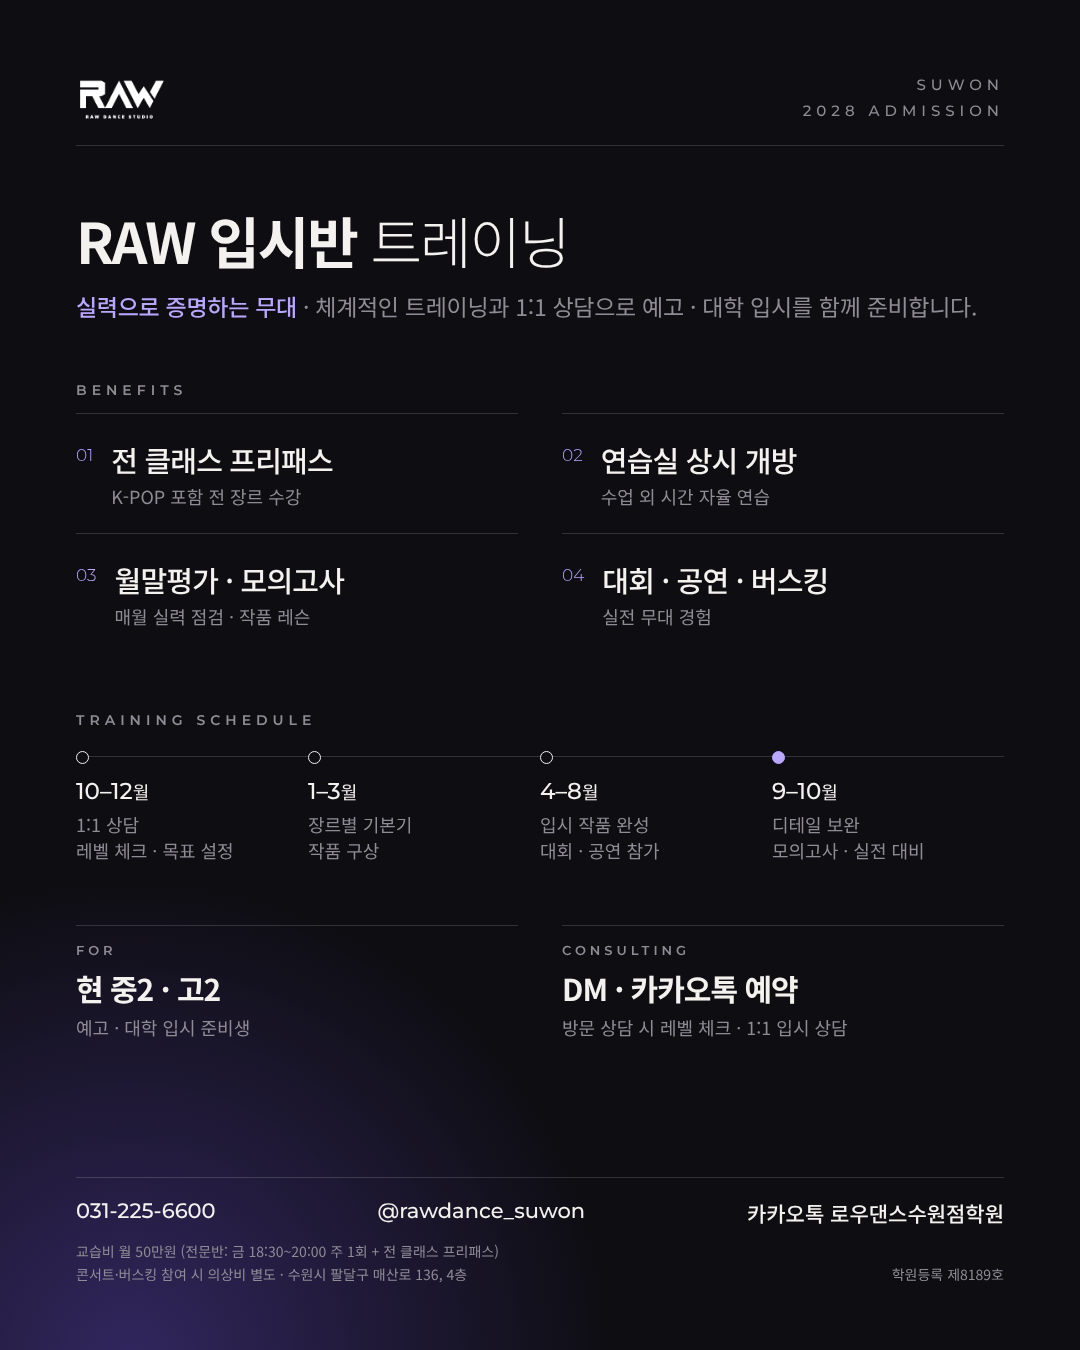
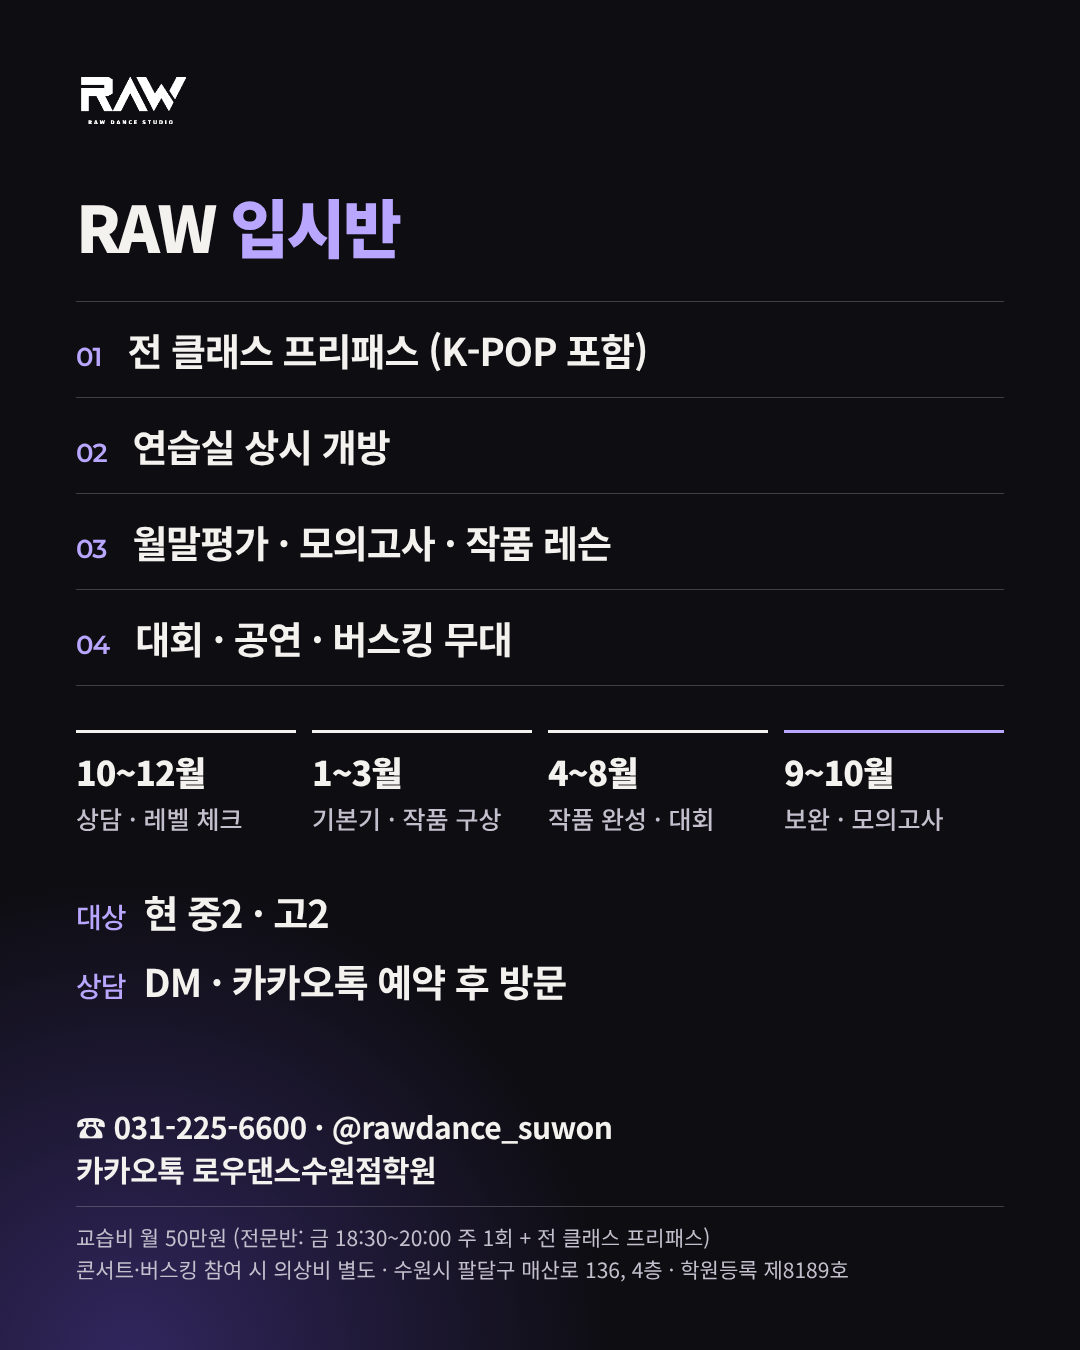
입시반 캐러셀: 작은 글씨 줄이고 크게 (휴대폰 가독성)
Claude-Session: https://claude.ai/code/session_01CMPXWNa21Fqq6srPZpa27D

diff --git a/content/2026-10-13_ipsi-poster/slide2.html b/content/2026-10-13_ipsi-poster/slide2.html
@@ -1,63 +1,49 @@
 <!doctype html><html lang="ko"><head><meta charset="utf-8">
-<link href="https://fonts.googleapis.com/css2?family=Noto+Sans+KR:wght@300;400;500;700;900&family=Montserrat:wght@200;300;500;600&display=swap" rel="stylesheet">
+<link href="https://fonts.googleapis.com/css2?family=Noto+Sans+KR:wght@300;400;500;700;900&family=Montserrat:wght@500;600&display=swap" rel="stylesheet">
 <style>*{box-sizing:border-box;margin:0;padding:0}html,body{width:1080px;height:1350px}
 body{font-family:"Noto Sans KR",sans-serif;background:#0e0d12;color:#f4f2ee;position:relative;overflow:hidden}
 .glow{position:absolute;width:1100px;height:1100px;border-radius:50%;left:-420px;bottom:-560px;background:radial-gradient(circle,rgba(124,92,255,.32),rgba(124,92,255,0) 62%)}
 .p{position:absolute;inset:72px 76px 64px}
-.top{display:flex;justify-content:space-between;align-items:flex-end;padding-bottom:22px;border-bottom:1px solid rgba(244,242,238,.16)}
-.top img{height:46px}
-.top .r{font-family:Montserrat;font-weight:500;font-size:15px;letter-spacing:5px;color:#8f8c96;text-align:right;line-height:1.7}
+.logo{height:58px}
 
-.h{margin-top:60px;font-size:56px;font-weight:700;letter-spacing:-2px;line-height:1.2}
-.h span{font-weight:300}
-.lead{margin-top:16px;font-size:23px;color:#8f8c96;letter-spacing:-0.3px}
-.lead b{color:#b9a6ff;font-weight:500}
-.sec{margin-top:58px;font-family:Montserrat;font-weight:600;font-size:14px;letter-spacing:5px;color:#8f8c96}
-.list{margin-top:14px;display:grid;grid-template-columns:1fr 1fr;column-gap:44px}
-.it{display:flex;gap:18px;padding:24px 0;border-top:1px solid rgba(244,242,238,.16)}
-.it .n{font-family:Montserrat;font-weight:300;font-size:17px;color:#b9a6ff;padding-top:7px}
-.it b{display:block;font-size:29px;font-weight:500;letter-spacing:-0.8px}
-.it span{display:block;margin-top:3px;font-size:18px;color:#8f8c96}
-.track{position:relative;margin-top:22px;display:grid;grid-template-columns:repeat(4,1fr)}
-.track:before{content:"";position:absolute;left:0;right:0;top:5px;height:1px;background:rgba(244,242,238,.16)}
-.st{position:relative;padding-top:26px}
-.st:before{content:"";position:absolute;left:0;top:0;width:11px;height:11px;border-radius:50%;background:#0e0d12;border:1.5px solid #f4f2ee}
-.st:last-child:before{background:#b9a6ff;border-color:#b9a6ff}
-.st b{font-family:Montserrat;font-weight:500;font-size:23px}
-.st b small{font-family:"Noto Sans KR";font-size:18px;font-weight:400}
-.st span{display:block;margin-top:6px;font-size:18px;color:#8f8c96;line-height:1.45}
-.info{margin-top:62px;display:grid;grid-template-columns:1fr 1fr;column-gap:44px}
-.info div{border-top:1px solid rgba(244,242,238,.16);padding-top:16px}
-.info small{display:block;font-family:Montserrat;font-weight:600;font-size:13px;letter-spacing:4px;color:#8f8c96}
-.info b{display:block;margin-top:8px;font-size:30px;font-weight:700;letter-spacing:-1px}
-.info span{display:block;margin-top:4px;font-size:18px;color:#8f8c96;line-height:1.5}
+.h{margin-top:44px;font-size:64px;font-weight:900;letter-spacing:-2.5px}
+.h span{color:#b9a6ff}
+.list{margin-top:30px}
+.it{display:flex;align-items:baseline;gap:26px;padding:20px 0;border-top:1px solid rgba(244,242,238,.22);font-size:38px;font-weight:700;letter-spacing:-1px}
+.it:last-child{border-bottom:1px solid rgba(244,242,238,.22)}
+.it i{font-style:normal;font-family:Montserrat;font-weight:600;font-size:26px;color:#b9a6ff}
+.track{margin-top:44px;display:grid;grid-template-columns:repeat(4,1fr);gap:16px}
+.st{border-top:3px solid #f4f2ee;padding-top:14px}
+.st:last-child{border-color:#b9a6ff}
+.st b{display:block;font-size:34px;font-weight:900;letter-spacing:-1px}
+.st span{display:block;margin-top:6px;font-size:25px;font-weight:500;color:#c3bfcc;line-height:1.35}
+.info{margin-top:48px;display:flex;flex-direction:column;gap:14px}
+.info div{font-size:38px;font-weight:700;letter-spacing:-1px}
+.info small{font-size:28px;font-weight:500;color:#b9a6ff;margin-right:18px}
 .bot{position:absolute;left:0;right:0;bottom:0}
-.ct{display:flex;justify-content:space-between;padding-top:20px;border-top:1px solid rgba(244,242,238,.16);font-size:21px;font-weight:500}
-.ct .en{font-family:Montserrat}
-.lg{margin-top:12px;font-size:14px;color:#8f8c96;line-height:1.65;display:flex;justify-content:space-between}
-</style></head><body><div class="glow"></div><div class="p"><div class="top"><img src="raw-logo.png"><div class="r">SUWON<br>2028 ADMISSION</div></div>
-<div class="h">RAW 입시반 <span>트레이닝</span></div>
-<div class="lead"><b>실력으로 증명하는 무대</b> · 체계적인 트레이닝과 1:1 상담으로 예고 · 대학 입시를 함께 준비합니다.</div>
-<div class="sec">BENEFITS</div>
+.ct{font-size:30px;font-weight:700;letter-spacing:-0.5px;line-height:1.45}
+.lg{margin-top:14px;padding-top:14px;border-top:1px solid rgba(244,242,238,.22);font-size:21px;font-weight:400;color:#c3bfcc;line-height:1.55}
+</style></head><body><div class="glow"></div><div class="p">
+<img class="logo" src="raw-logo.png">
+<div class="h">RAW <span>입시반</span></div>
 <div class="list">
- <div class="it"><div class="n">01</div><div><b>전 클래스 프리패스</b><span>K-POP 포함 전 장르 수강</span></div></div>
- <div class="it"><div class="n">02</div><div><b>연습실 상시 개방</b><span>수업 외 시간 자율 연습</span></div></div>
- <div class="it"><div class="n">03</div><div><b>월말평가 · 모의고사</b><span>매월 실력 점검 · 작품 레슨</span></div></div>
- <div class="it"><div class="n">04</div><div><b>대회 · 공연 · 버스킹</b><span>실전 무대 경험</span></div></div>
+ <div class="it"><i>01</i>전 클래스 프리패스 (K-POP 포함)</div>
+ <div class="it"><i>02</i>연습실 상시 개방</div>
+ <div class="it"><i>03</i>월말평가 · 모의고사 · 작품 레슨</div>
+ <div class="it"><i>04</i>대회 · 공연 · 버스킹 무대</div>
 </div>
-<div class="sec">TRAINING SCHEDULE</div>
 <div class="track">
- <div class="st"><b>10–12<small>월</small></b><span>1:1 상담<br>레벨 체크 · 목표 설정</span></div>
- <div class="st"><b>1–3<small>월</small></b><span>장르별 기본기<br>작품 구상</span></div>
- <div class="st"><b>4–8<small>월</small></b><span>입시 작품 완성<br>대회 · 공연 참가</span></div>
- <div class="st"><b>9–10<small>월</small></b><span>디테일 보완<br>모의고사 · 실전 대비</span></div>
+ <div class="st"><b>10~12월</b><span>상담 · 레벨 체크</span></div>
+ <div class="st"><b>1~3월</b><span>기본기 · 작품 구상</span></div>
+ <div class="st"><b>4~8월</b><span>작품 완성 · 대회</span></div>
+ <div class="st"><b>9~10월</b><span>보완 · 모의고사</span></div>
 </div>
 <div class="info">
- <div><small>FOR</small><b>현 중2 · 고2</b><span>예고 · 대학 입시 준비생</span></div>
- <div><small>CONSULTING</small><b>DM · 카카오톡 예약</b><span>방문 상담 시 레벨 체크 · 1:1 입시 상담</span></div>
+ <div><small>대상</small>현 중2 · 고2</div>
+ <div><small>상담</small>DM · 카카오톡 예약 후 방문</div>
 </div>
 <div class="bot">
- <div class="ct"><span class="en">031-225-6600</span><span class="en">@rawdance_suwon</span><span>카카오톡 로우댄스수원점학원</span></div>
- <div class="lg"><span>교습비 월 50만원 (전문반: 금 18:30~20:00 주 1회 + 전 클래스 프리패스)<br>콘서트·버스킹 참여 시 의상비 별도 · 수원시 팔달구 매산로 136, 4층</span><span style="align-self:flex-end">학원등록 제8189호</span></div>
+ <div class="ct">☎ 031-225-6600 · @rawdance_suwon<br>카카오톡 로우댄스수원점학원</div>
+ <div class="lg">교습비 월 50만원 (전문반: 금 18:30~20:00 주 1회 + 전 클래스 프리패스)<br>콘서트·버스킹 참여 시 의상비 별도 · 수원시 팔달구 매산로 136, 4층 · 학원등록 제8189호</div>
 </div>
 </div></body></html>

diff --git a/content/2026-10-13_ipsi-poster/slide1.html b/content/2026-10-13_ipsi-poster/slide1.html
@@ -1,26 +1,21 @@
 <!doctype html><html lang="ko"><head><meta charset="utf-8">
-<link href="https://fonts.googleapis.com/css2?family=Noto+Sans+KR:wght@300;400;500;700;900&family=Montserrat:wght@200;300;500;600&display=swap" rel="stylesheet">
+<link href="https://fonts.googleapis.com/css2?family=Noto+Sans+KR:wght@300;400;500;700;900&family=Montserrat:wght@500;600&display=swap" rel="stylesheet">
 <style>*{box-sizing:border-box;margin:0;padding:0}html,body{width:1080px;height:1350px}
 body{font-family:"Noto Sans KR",sans-serif;background:#0e0d12;color:#f4f2ee;position:relative;overflow:hidden}
 .glow{position:absolute;width:1100px;height:1100px;border-radius:50%;left:-420px;bottom:-560px;background:radial-gradient(circle,rgba(124,92,255,.32),rgba(124,92,255,0) 62%)}
 .p{position:absolute;inset:72px 76px 64px}
-.top{display:flex;justify-content:space-between;align-items:flex-end;padding-bottom:22px;border-bottom:1px solid rgba(244,242,238,.16)}
-.top img{height:46px}
-.top .r{font-family:Montserrat;font-weight:500;font-size:15px;letter-spacing:5px;color:#8f8c96;text-align:right;line-height:1.7}
+.logo{height:58px}
 
-.kick{margin-top:110px;font-size:52px;font-weight:300;letter-spacing:-1px}
-.kick b{font-weight:700}
-.big{margin-top:18px;font-weight:900;font-size:322px;line-height:.98;letter-spacing:-20px;margin-left:-12px}
-.big .o{color:transparent;-webkit-text-stroke:3px #f4f2ee}
+.kick{margin-top:150px;font-size:60px;font-weight:400;letter-spacing:-1.5px}
+.big{margin-top:16px;font-weight:900;font-size:322px;line-height:.98;letter-spacing:-20px;margin-left:-12px}
 .big .a{color:#b9a6ff}
-.meta{margin-top:56px;display:flex;align-items:center;gap:20px;font-size:30px;font-weight:400;letter-spacing:-0.5px}
-.meta i{display:block;width:60px;height:1.5px;background:#b9a6ff}
-.meta span{color:#8f8c96}
-.bot{position:absolute;left:0;right:0;bottom:0;display:flex;justify-content:space-between;align-items:center;padding-top:22px;border-top:1px solid rgba(244,242,238,.16);font-family:Montserrat;font-weight:500;font-size:18px;letter-spacing:3px;color:#8f8c96}
-.bot b{color:#f4f2ee;font-weight:600}
-</style></head><body><div class="glow"></div><div class="p"><div class="top"><img src="raw-logo.png"><div class="r">SUWON<br>2028 ADMISSION</div></div>
+.meta{margin-top:56px;font-size:40px;font-weight:500;letter-spacing:-1px;line-height:1.4}
+.meta span{color:#b9a6ff}
+.bot{position:absolute;left:0;right:0;bottom:0;display:flex;justify-content:flex-end;font-size:30px;font-weight:700}
+</style></head><body><div class="glow"></div><div class="p">
+<img class="logo" src="raw-logo.png">
 <div class="kick">예고 · 대학</div>
 <div class="big">입시반<br><span class="a">모집</span></div>
-<div class="meta"><i></i>2028학년도 입시 대비<span>현 중2 · 고2</span></div>
-<div class="bot"><span>@RAWDANCE_SUWON</span><b>SWIPE →</b></div>
+<div class="meta">2028학년도 입시 대비<br><span>현 중2 · 고2</span></div>
+<div class="bot">자세히 보기 →</div>
 </div></body></html>

diff --git a/content/2026-10-13_ipsi-poster/make_carousel.py b/content/2026-10-13_ipsi-poster/make_carousel.py
@@ -1,87 +1,70 @@
 # 사용: python3 make_carousel.py  → slide1.html, slide2.html (인스타 캐러셀 1080x1350)
-BG='#0e0d12'; FG='#f4f2ee'; MUTE='#8f8c96'; LINE='rgba(244,242,238,.16)'; ACC='#b9a6ff'
-HEAD='''<!doctype html><html lang="ko"><head><meta charset="utf-8">
-<link href="https://fonts.googleapis.com/css2?family=Noto+Sans+KR:wght@300;400;500;700;900&family=Montserrat:wght@200;300;500;600&display=swap" rel="stylesheet">
+# 원칙: 휴대폰에서 읽히게 본문 최소 24px, 회색 글씨 최소화
+BG='#0e0d12'; FG='#f4f2ee'; MUTE='#c3bfcc'; LINE='rgba(244,242,238,.22)'; ACC='#b9a6ff'
+HEAD=f'''<!doctype html><html lang="ko"><head><meta charset="utf-8">
+<link href="https://fonts.googleapis.com/css2?family=Noto+Sans+KR:wght@300;400;500;700;900&family=Montserrat:wght@500;600&display=swap" rel="stylesheet">
 <style>*{{box-sizing:border-box;margin:0;padding:0}}html,body{{width:1080px;height:1350px}}
 body{{font-family:"Noto Sans KR",sans-serif;background:{BG};color:{FG};position:relative;overflow:hidden}}
 .glow{{position:absolute;width:1100px;height:1100px;border-radius:50%;left:-420px;bottom:-560px;background:radial-gradient(circle,rgba(124,92,255,.32),rgba(124,92,255,0) 62%)}}
 .p{{position:absolute;inset:72px 76px 64px}}
-.top{{display:flex;justify-content:space-between;align-items:flex-end;padding-bottom:22px;border-bottom:1px solid {LINE}}}
-.top img{{height:46px}}
-.top .r{{font-family:Montserrat;font-weight:500;font-size:15px;letter-spacing:5px;color:{MUTE};text-align:right;line-height:1.7}}
-'''.format(BG=BG,FG=FG,MUTE=MUTE,LINE=LINE)
-TOP='<div class="top"><img src="raw-logo.png"><div class="r">SUWON<br>2028 ADMISSION</div></div>'
+.logo{{height:58px}}
+'''
 
 s1=HEAD+f'''
-.kick{{margin-top:110px;font-size:52px;font-weight:300;letter-spacing:-1px}}
-.kick b{{font-weight:700}}
-.big{{margin-top:18px;font-weight:900;font-size:322px;line-height:.98;letter-spacing:-20px;margin-left:-12px}}
-.big .o{{color:transparent;-webkit-text-stroke:3px {FG}}}
+.kick{{margin-top:150px;font-size:60px;font-weight:400;letter-spacing:-1.5px}}
+.big{{margin-top:16px;font-weight:900;font-size:322px;line-height:.98;letter-spacing:-20px;margin-left:-12px}}
 .big .a{{color:{ACC}}}
-.meta{{margin-top:56px;display:flex;align-items:center;gap:20px;font-size:30px;font-weight:400;letter-spacing:-0.5px}}
-.meta i{{display:block;width:60px;height:1.5px;background:{ACC}}}
-.meta span{{color:{MUTE}}}
-.bot{{position:absolute;left:0;right:0;bottom:0;display:flex;justify-content:space-between;align-items:center;padding-top:22px;border-top:1px solid {LINE};font-family:Montserrat;font-weight:500;font-size:18px;letter-spacing:3px;color:{MUTE}}}
-.bot b{{color:{FG};font-weight:600}}
-</style></head><body><div class="glow"></div><div class="p">{TOP}
+.meta{{margin-top:56px;font-size:40px;font-weight:500;letter-spacing:-1px;line-height:1.4}}
+.meta span{{color:{ACC}}}
+.bot{{position:absolute;left:0;right:0;bottom:0;display:flex;justify-content:flex-end;font-size:30px;font-weight:700}}
+</style></head><body><div class="glow"></div><div class="p">
+<img class="logo" src="raw-logo.png">
 <div class="kick">예고 · 대학</div>
 <div class="big">입시반<br><span class="a">모집</span></div>
-<div class="meta"><i></i>2028학년도 입시 대비<span>현 중2 · 고2</span></div>
-<div class="bot"><span>@RAWDANCE_SUWON</span><b>SWIPE →</b></div>
+<div class="meta">2028학년도 입시 대비<br><span>현 중2 · 고2</span></div>
+<div class="bot">자세히 보기 →</div>
 </div></body></html>'''
 
 s2=HEAD+f'''
-.h{{margin-top:60px;font-size:56px;font-weight:700;letter-spacing:-2px;line-height:1.2}}
-.h span{{font-weight:300}}
-.lead{{margin-top:16px;font-size:23px;color:{MUTE};letter-spacing:-0.3px}}
-.lead b{{color:{ACC};font-weight:500}}
-.sec{{margin-top:58px;font-family:Montserrat;font-weight:600;font-size:14px;letter-spacing:5px;color:{MUTE}}}
-.list{{margin-top:14px;display:grid;grid-template-columns:1fr 1fr;column-gap:44px}}
-.it{{display:flex;gap:18px;padding:24px 0;border-top:1px solid {LINE}}}
-.it .n{{font-family:Montserrat;font-weight:300;font-size:17px;color:{ACC};padding-top:7px}}
-.it b{{display:block;font-size:29px;font-weight:500;letter-spacing:-0.8px}}
-.it span{{display:block;margin-top:3px;font-size:18px;color:{MUTE}}}
-.track{{position:relative;margin-top:22px;display:grid;grid-template-columns:repeat(4,1fr)}}
-.track:before{{content:"";position:absolute;left:0;right:0;top:5px;height:1px;background:{LINE}}}
-.st{{position:relative;padding-top:26px}}
-.st:before{{content:"";position:absolute;left:0;top:0;width:11px;height:11px;border-radius:50%;background:{BG};border:1.5px solid {FG}}}
-.st:last-child:before{{background:{ACC};border-color:{ACC}}}
-.st b{{font-family:Montserrat;font-weight:500;font-size:23px}}
-.st b small{{font-family:"Noto Sans KR";font-size:18px;font-weight:400}}
-.st span{{display:block;margin-top:6px;font-size:18px;color:{MUTE};line-height:1.45}}
-.info{{margin-top:62px;display:grid;grid-template-columns:1fr 1fr;column-gap:44px}}
-.info div{{border-top:1px solid {LINE};padding-top:16px}}
-.info small{{display:block;font-family:Montserrat;font-weight:600;font-size:13px;letter-spacing:4px;color:{MUTE}}}
-.info b{{display:block;margin-top:8px;font-size:30px;font-weight:700;letter-spacing:-1px}}
-.info span{{display:block;margin-top:4px;font-size:18px;color:{MUTE};line-height:1.5}}
+.h{{margin-top:44px;font-size:64px;font-weight:900;letter-spacing:-2.5px}}
+.h span{{color:{ACC}}}
+.list{{margin-top:30px}}
+.it{{display:flex;align-items:baseline;gap:26px;padding:20px 0;border-top:1px solid {LINE};font-size:38px;font-weight:700;letter-spacing:-1px}}
+.it:last-child{{border-bottom:1px solid {LINE}}}
+.it i{{font-style:normal;font-family:Montserrat;font-weight:600;font-size:26px;color:{ACC}}}
+.track{{margin-top:44px;display:grid;grid-template-columns:repeat(4,1fr);gap:16px}}
+.st{{border-top:3px solid {FG};padding-top:14px}}
+.st:last-child{{border-color:{ACC}}}
+.st b{{display:block;font-size:34px;font-weight:900;letter-spacing:-1px}}
+.st span{{display:block;margin-top:6px;font-size:25px;font-weight:500;color:{MUTE};line-height:1.35}}
+.info{{margin-top:48px;display:flex;flex-direction:column;gap:14px}}
+.info div{{font-size:38px;font-weight:700;letter-spacing:-1px}}
+.info small{{font-size:28px;font-weight:500;color:{ACC};margin-right:18px}}
 .bot{{position:absolute;left:0;right:0;bottom:0}}
-.ct{{display:flex;justify-content:space-between;padding-top:20px;border-top:1px solid {LINE};font-size:21px;font-weight:500}}
-.ct .en{{font-family:Montserrat}}
-.lg{{margin-top:12px;font-size:14px;color:{MUTE};line-height:1.65;display:flex;justify-content:space-between}}
-</style></head><body><div class="glow"></div><div class="p">{TOP}
-<div class="h">RAW 입시반 <span>트레이닝</span></div>
-<div class="lead"><b>실력으로 증명하는 무대</b> · 체계적인 트레이닝과 1:1 상담으로 예고 · 대학 입시를 함께 준비합니다.</div>
-<div class="sec">BENEFITS</div>
+.ct{{font-size:30px;font-weight:700;letter-spacing:-0.5px;line-height:1.45}}
+.lg{{margin-top:14px;padding-top:14px;border-top:1px solid {LINE};font-size:21px;font-weight:400;color:{MUTE};line-height:1.55}}
+</style></head><body><div class="glow"></div><div class="p">
+<img class="logo" src="raw-logo.png">
+<div class="h">RAW <span>입시반</span></div>
 <div class="list">
- <div class="it"><div class="n">01</div><div><b>전 클래스 프리패스</b><span>K-POP 포함 전 장르 수강</span></div></div>
- <div class="it"><div class="n">02</div><div><b>연습실 상시 개방</b><span>수업 외 시간 자율 연습</span></div></div>
- <div class="it"><div class="n">03</div><div><b>월말평가 · 모의고사</b><span>매월 실력 점검 · 작품 레슨</span></div></div>
- <div class="it"><div class="n">04</div><div><b>대회 · 공연 · 버스킹</b><span>실전 무대 경험</span></div></div>
+ <div class="it"><i>01</i>전 클래스 프리패스 (K-POP 포함)</div>
+ <div class="it"><i>02</i>연습실 상시 개방</div>
+ <div class="it"><i>03</i>월말평가 · 모의고사 · 작품 레슨</div>
+ <div class="it"><i>04</i>대회 · 공연 · 버스킹 무대</div>
 </div>
-<div class="sec">TRAINING SCHEDULE</div>
 <div class="track">
- <div class="st"><b>10–12<small>월</small></b><span>1:1 상담<br>레벨 체크 · 목표 설정</span></div>
- <div class="st"><b>1–3<small>월</small></b><span>장르별 기본기<br>작품 구상</span></div>
- <div class="st"><b>4–8<small>월</small></b><span>입시 작품 완성<br>대회 · 공연 참가</span></div>
- <div class="st"><b>9–10<small>월</small></b><span>디테일 보완<br>모의고사 · 실전 대비</span></div>
+ <div class="st"><b>10~12월</b><span>상담 · 레벨 체크</span></div>
+ <div class="st"><b>1~3월</b><span>기본기 · 작품 구상</span></div>
+ <div class="st"><b>4~8월</b><span>작품 완성 · 대회</span></div>
+ <div class="st"><b>9~10월</b><span>보완 · 모의고사</span></div>
 </div>
 <div class="info">
- <div><small>FOR</small><b>현 중2 · 고2</b><span>예고 · 대학 입시 준비생</span></div>
- <div><small>CONSULTING</small><b>DM · 카카오톡 예약</b><span>방문 상담 시 레벨 체크 · 1:1 입시 상담</span></div>
+ <div><small>대상</small>현 중2 · 고2</div>
+ <div><small>상담</small>DM · 카카오톡 예약 후 방문</div>
 </div>
 <div class="bot">
- <div class="ct"><span class="en">031-225-6600</span><span class="en">@rawdance_suwon</span><span>카카오톡 로우댄스수원점학원</span></div>
- <div class="lg"><span>교습비 월 50만원 (전문반: 금 18:30~20:00 주 1회 + 전 클래스 프리패스)<br>콘서트·버스킹 참여 시 의상비 별도 · 수원시 팔달구 매산로 136, 4층</span><span style="align-self:flex-end">학원등록 제8189호</span></div>
+ <div class="ct">☎ 031-225-6600 · @rawdance_suwon<br>카카오톡 로우댄스수원점학원</div>
+ <div class="lg">교습비 월 50만원 (전문반: 금 18:30~20:00 주 1회 + 전 클래스 프리패스)<br>콘서트·버스킹 참여 시 의상비 별도 · 수원시 팔달구 매산로 136, 4층 · 학원등록 제8189호</div>
 </div>
 </div></body></html>'''
 open('slide1.html','w',encoding='utf-8').write(s1)
